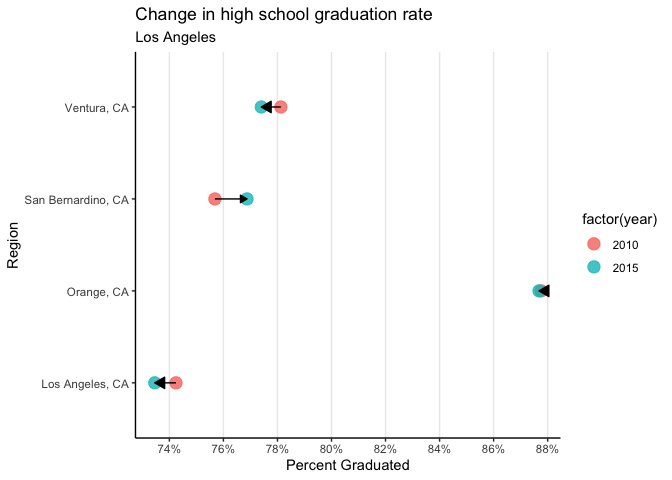
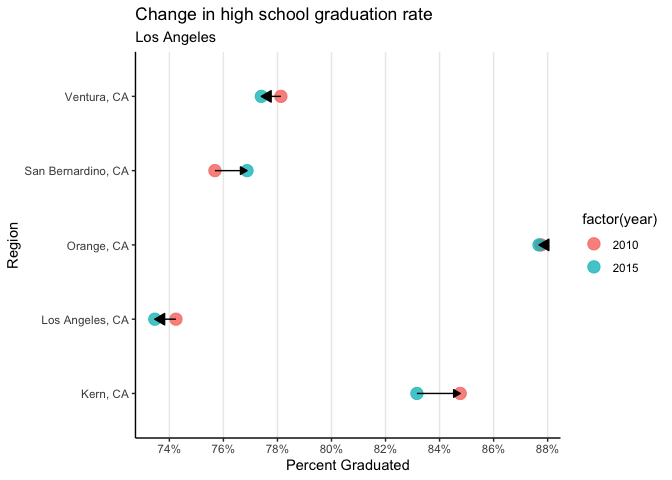
update

diff --git a/Jay's work/Dec_6.md b/Jay's work/Dec_6.md
@@ -356,24 +356,9 @@ ap_ny<- ny%>%
 ny_wealthy <- ap_ny%>%
   filter(median_income>100000)
 
-ap_b_ny<- ny%>%
-  filter(county_name == "Bronx")
-b_ny_wealthy <- ap_ny%>%
-  filter(median_income>100000)
-
-ap_k_ny<- ny%>%
-  filter(county_name == "Brooklyn")
-k_ny_wealthy <- ap_ny%>%
-  filter(median_income>100000)
-
-ap_s_ny<- ny%>%
-  filter(county_name == "Staten Island")
-s_ny_wealthy <- ap_ny%>%
-  filter(median_income>100000)
-
-ap_q_ny<- ny%>%
-  filter(county_name == "Queens")
-q_ny_wealthy <- ap_ny%>%
+ap_sub_ny<- ny%>%
+  filter(county_name != "Manhattan")
+sub_ap_wealthy <- ap_ny%>%
   filter(median_income>100000)
 ```
 
@@ -508,11 +493,11 @@ ggplot()+
 
 ``` r
 ggplot()+
-  geom_density(aes(AP_students), alpha = .2, fill="pink", data = ap_q_ny)+
-  geom_density(aes(AP_students), alpha = .2, fill="lightblue",  data = q_ny_wealthy)+
+  geom_density(aes(AP_students), alpha = .2, fill="pink", data = ap_sub_ny)+
+  geom_density(aes(AP_students), alpha = .2, fill="lightblue",  data = sub_ap_wealthy)+
   labs(
-    title="Ratio of students in at least one AP course to the number of 11th/12th graders",
-    subtitle="Queens",
+    title="Ratio of students in at least one AP course to the number of 11th/12th graders.",
+    subtitle="Suburbs of New York",
     x="Ratio",
     y="Frequency"
   )+
@@ -523,7 +508,7 @@ ggplot()+
   theme(panel.grid.major.x=element_line())
 ```
 
-    ## Warning: Removed 36 rows containing non-finite values (stat_density).
+    ## Warning: Removed 64 rows containing non-finite values (stat_density).
 
     ## Warning: Removed 2 rows containing non-finite values (stat_density).
 
@@ -531,33 +516,10 @@ ggplot()+
 
 ``` r
 ggplot()+
-  geom_density(aes(AP_students), alpha = .2, fill="pink", data = ap_s_ny)+
-  geom_density(aes(AP_students), alpha = .2, fill="lightblue",  data = s_ny_wealthy)+
-  labs(
-    title="Ratio of students in at least one AP course to the number of 11th/12th graders",
-    subtitle="Staten Island",
-    x="Ratio",
-    y="Frequency"
-  )+
- scale_x_continuous(
-            breaks=seq(0, 2, 0.1)
-            )+ 
-  theme_classic()+
-  theme(panel.grid.major.x=element_line())
-```
-
-    ## Warning: Removed 4 rows containing non-finite values (stat_density).
-    
-    ## Warning: Removed 2 rows containing non-finite values (stat_density).
-
-![](Dec_6_files/figure-gfm/unnamed-chunk-13-2.png)<!-- -->
-
-``` r
-ggplot()+
   geom_density(aes(AP_students), alpha = .2, fill="pink", data = ap_ny)+
   geom_density(aes(AP_students), alpha = .2, fill="lightblue",  data = ny_wealthy)+
   labs(
-    title="Ratio of students in at least one AP course to the number of 11th/12th graders",
+    title="Ratio of students in at least one AP course to the number of 11th/12th graders.",
     subtitle="Manhattan",
     x="Ratio",
     y="Frequency"
@@ -573,53 +535,7 @@ ggplot()+
     
     ## Warning: Removed 2 rows containing non-finite values (stat_density).
 
-![](Dec_6_files/figure-gfm/unnamed-chunk-13-3.png)<!-- -->
-
-``` r
-ggplot()+
-  geom_density(aes(AP_students), alpha = .2, fill="pink", data = ap_b_ny)+
-  geom_density(aes(AP_students), alpha = .2, fill="lightblue",  data = b_ny_wealthy)+
-  labs(
-    title="Ratio of students in at least one AP course to the number of 11th/12th graders",
-    subtitle="Bronx",
-    x="Ratio",
-    y="Frequency"
-  )+
- scale_x_continuous(
-            breaks=seq(0, 2, 0.1)
-            )+ 
-  theme_classic()+
-  theme(panel.grid.major.x=element_line())
-```
-
-    ## Warning: Removed 8 rows containing non-finite values (stat_density).
-    
-    ## Warning: Removed 2 rows containing non-finite values (stat_density).
-
-![](Dec_6_files/figure-gfm/unnamed-chunk-13-4.png)<!-- -->
-
-``` r
-ggplot()+
-  geom_density(aes(AP_students), alpha = .2, fill="pink", data = ap_k_ny)+
-  geom_density(aes(AP_students), alpha = .2, fill="lightblue",  data = k_ny_wealthy)+
-  labs(
-    title="Ratio of students in at least one AP course to the number of 11th/12th graders",
-    subtitle="Brookyn",
-    x="Ratio",
-    y="Frequency"
-  )+
- scale_x_continuous(
-            breaks=seq(0, 2, 0.1)
-            )+ 
-  theme_classic()+
-  theme(panel.grid.major.x=element_line())
-```
-
-    ## Warning: Removed 16 rows containing non-finite values (stat_density).
-    
-    ## Warning: Removed 2 rows containing non-finite values (stat_density).
-
-![](Dec_6_files/figure-gfm/unnamed-chunk-13-5.png)<!-- -->
+![](Dec_6_files/figure-gfm/unnamed-chunk-13-2.png)<!-- -->
 
 # 3\. Grad Rates
 
@@ -629,6 +545,7 @@ data1 <- df%>%
                                 county_code == "06059" ~ "Orange, CA",
                                 county_code == "06071" ~ "San Bernardino, CA",
                                 county_code == "06037" ~ "Los Angeles, CA",
+                                county_code == "06029" ~ "Kern, CA",
                                 county_code == "48201" ~ "Harris (Houston), TX", 
                                 county_code == "48157" ~ "Fort Bend, TX", 
                                 county_code == "48339" ~ "Montgomery, TX", 
@@ -668,7 +585,7 @@ ny_rates_bad <-  grad_rates_nyc %>%
 
 #LA
 grad_rates_la<- data %>%
-  filter(county_name %in% c("Ventura, CA", "Orange, CA", "Los Angeles, CA", "San Bernardino, CA"))%>%
+  filter(county_name %in% c("Ventura, CA", "Orange, CA", "Los Angeles, CA", "San Bernardino, CA", "Kern, CA"))%>%
   group_by(county_name,year)%>%
   summarise(mean_grad = mean(hs_grads))
 ```
@@ -677,7 +594,7 @@ grad_rates_la<- data %>%
 
 ``` r
 la_rates_good <- grad_rates_la %>% 
-  filter(county_name %in% c("San Bernardino, CA"))
+  filter(county_name %in% c("San Bernardino, CA", "Kern, CA"))
 la_rates_bad <-  grad_rates_la %>% 
   filter(county_name %in% c("Los Angeles, CA", "Orange, CA","Ventura, CA" ))
 
